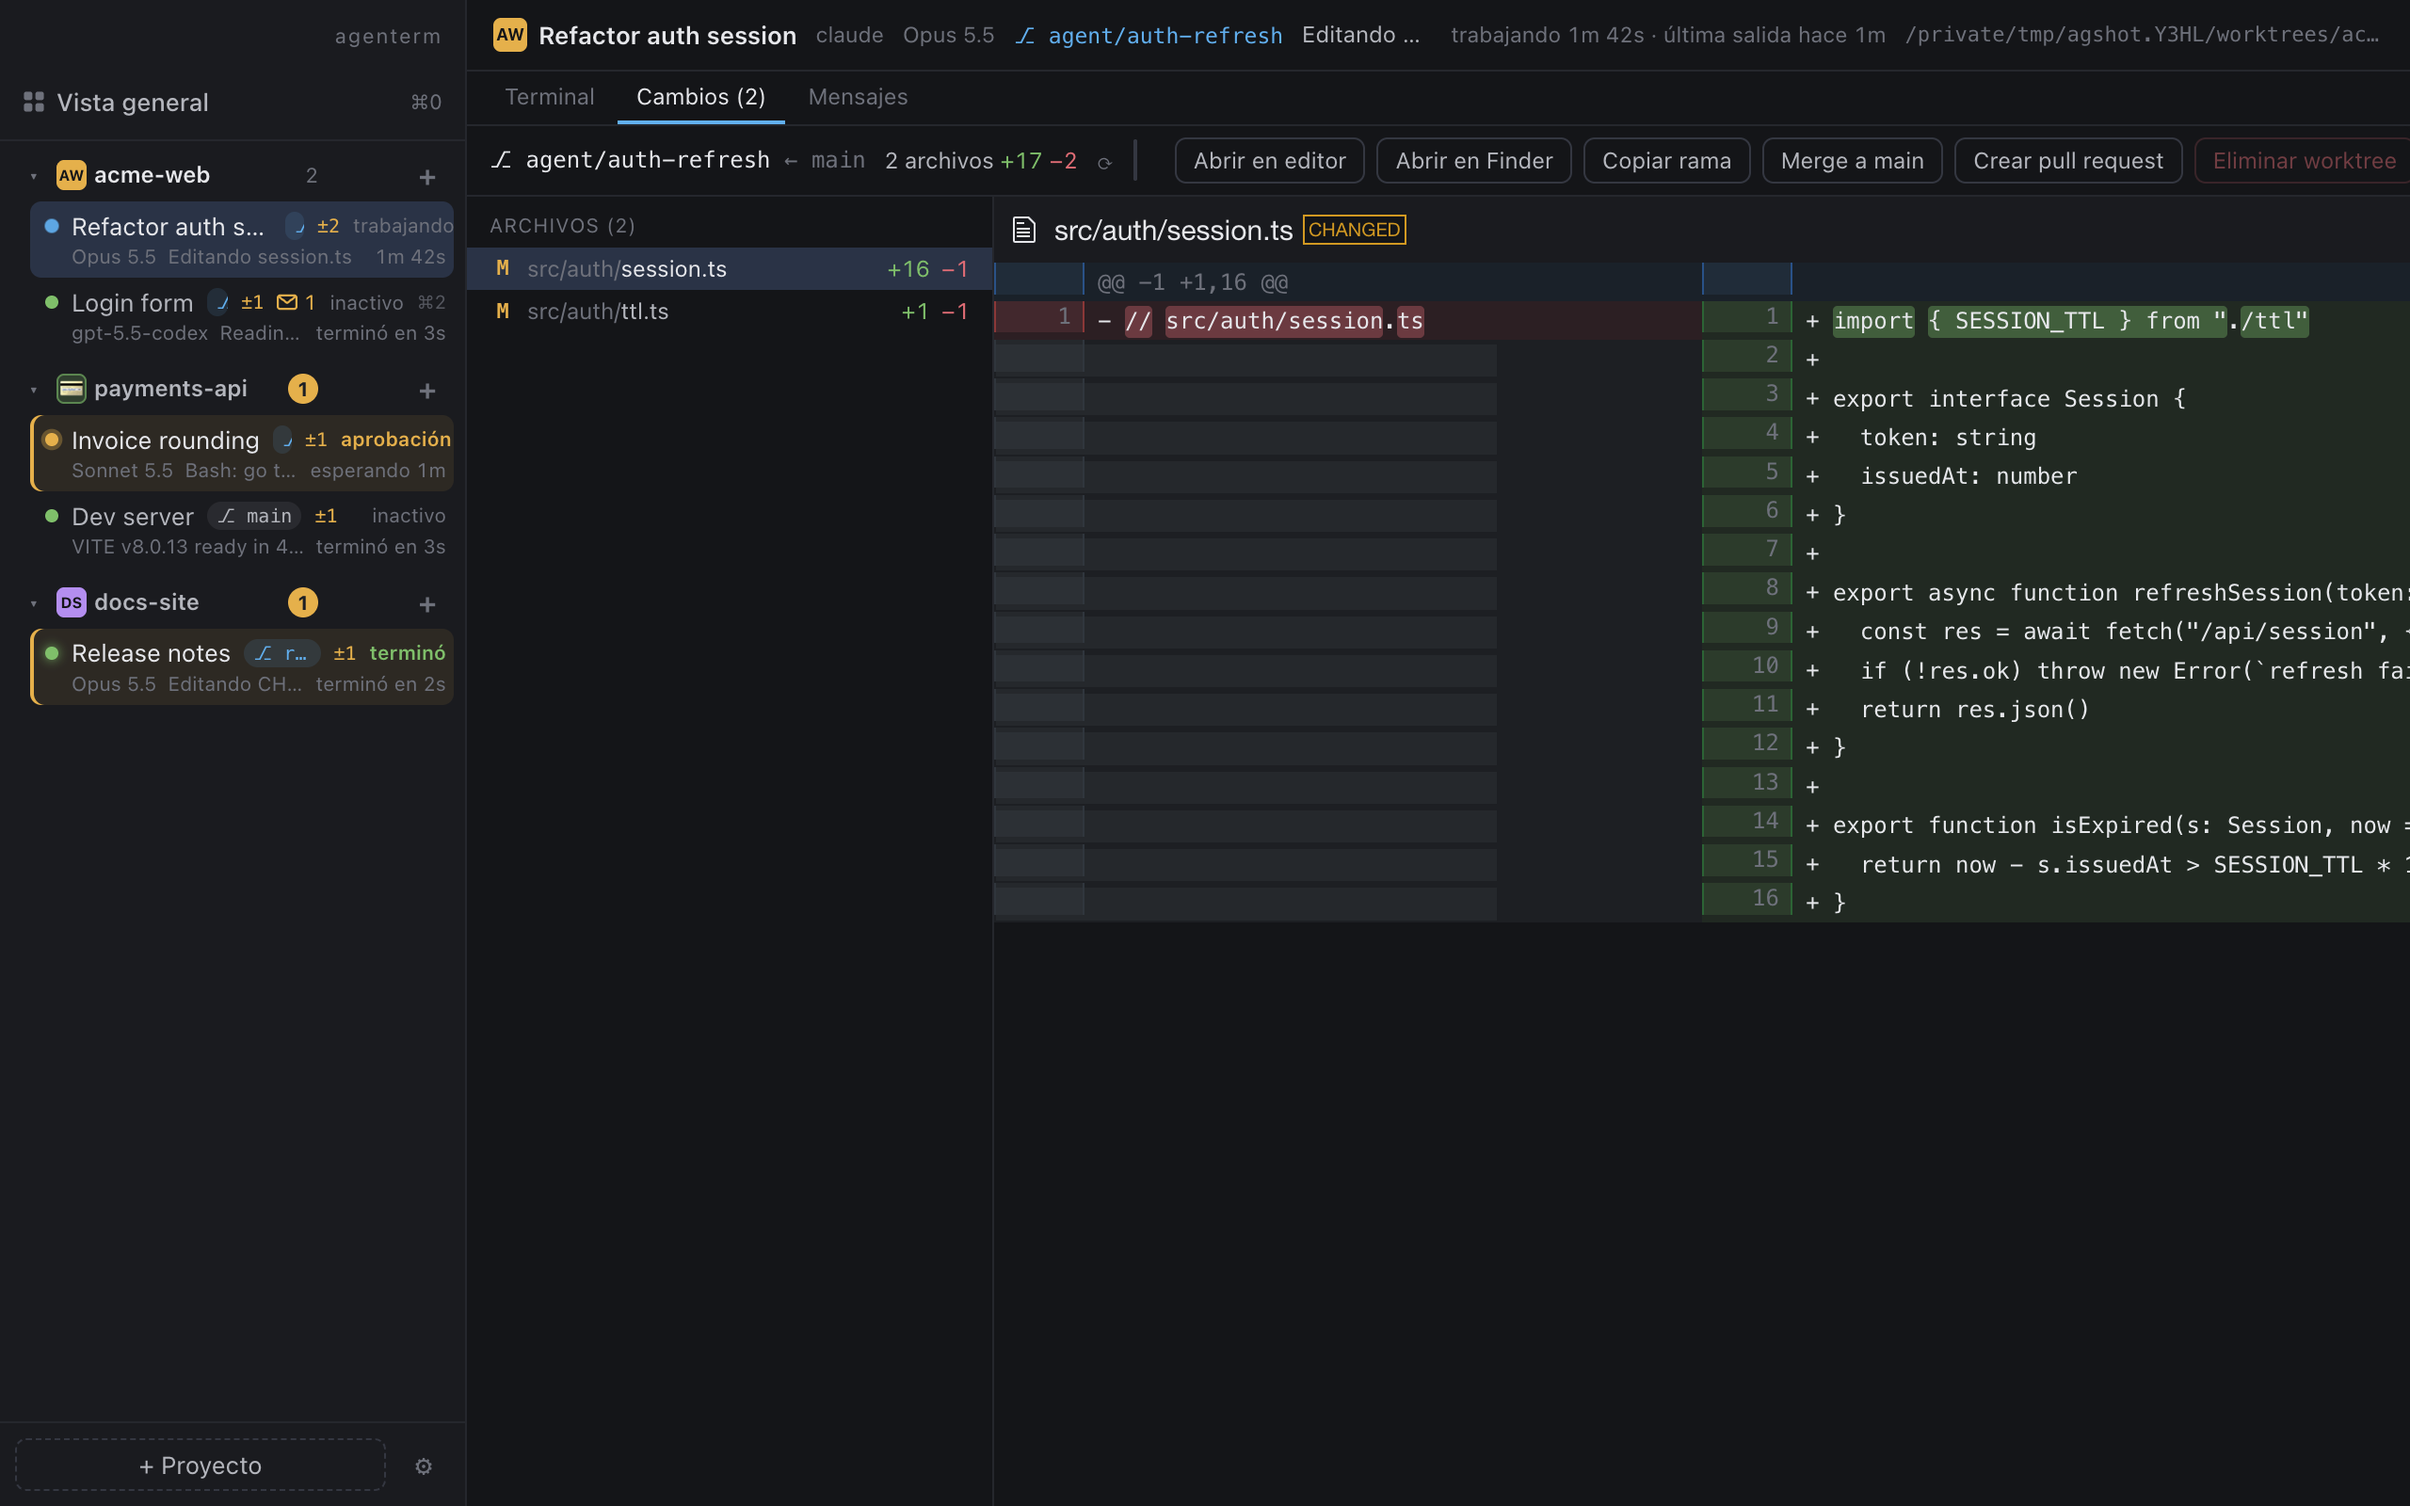
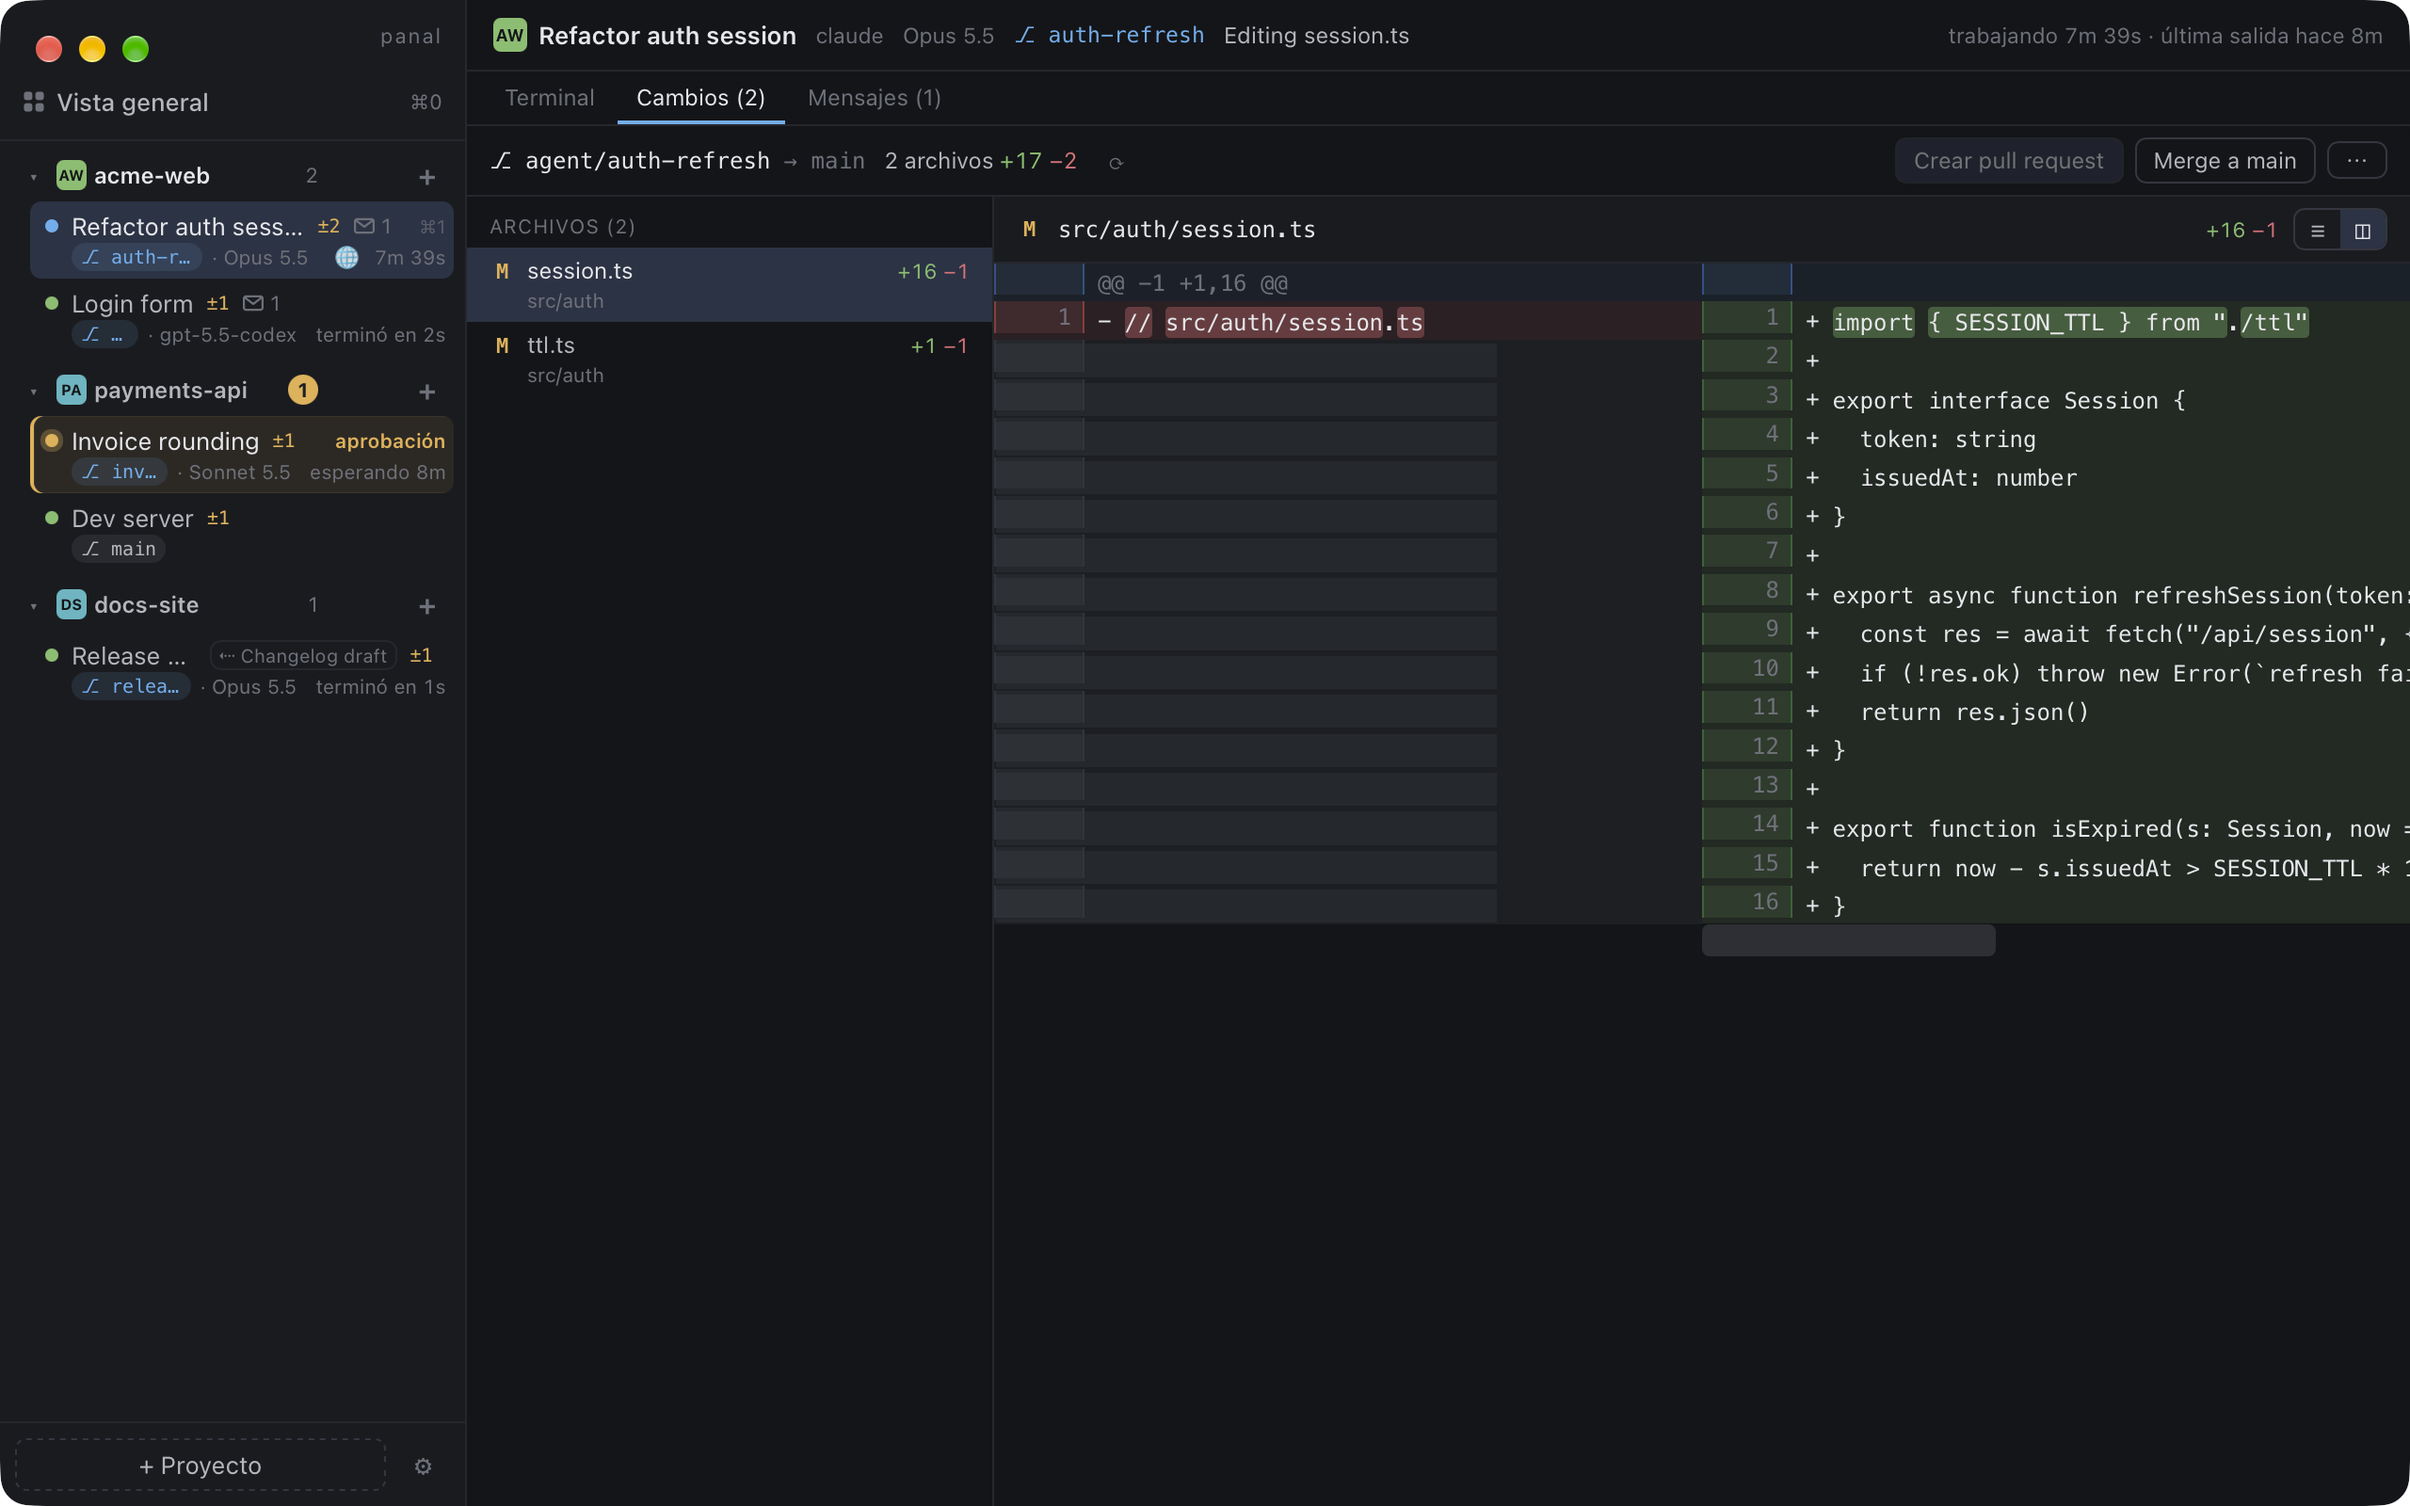
docs: README screenshots as panal, with instructions and continue-with; list the new features
New captures (en/es) from demo data in a temp home (fake agents, no real
ones): the main view (panal wordmark, a session's browser open, a session
continued from another, an approval, a message), the Overview of all
projects, Changes, Messages, and two new ones: Settings → Instructions
(topics, load, scope) and Continue with another agent. Features now list
continue-with, instructions by topic, the per-session browser, installing
agents from Settings and the Linux app.

diff --git a/README.es.md b/README.es.md
@@ -16,7 +16,7 @@ y cuál está esperando tu aprobación. panal agrupa las sesiones por proyecto, 
 vivos aunque cierres la app y te avisa cuando alguno te necesita.
 
 <p align="center">
-  <img src="docs/img/screenshot-es.png" alt="panal: proyectos con sus insignias y sesiones en la barra lateral, cada una con su modelo, su rama y su actividad en vivo, una aprobación pendiente, un mensaje esperando y la terminal" width="900">
+  <img src="docs/img/screenshot-es.png" alt="panal: tres proyectos en la barra lateral, cada sesión con su modelo, rama, cambios y estado en vivo (trabajando, una aprobación esperando, terminada), un mensaje esperando, el navegador propio de una sesión abierto (globo) y una sesión que continúa a otra (⇠ Changelog draft); a la derecha, la terminal del agente elegido" width="900">
 </p>
 
 ## Funciones
@@ -61,13 +61,24 @@ vivos aunque cierres la app y te avisa cuando alguno te necesita.
   los leen con `panal msg read`. A las sesiones en espera se les avisa solo (Claude, y los agentes
   que avisan el fin de su turno), y la pestaña **Mensajes** dice por qué espera un mensaje. Los mensajes
   nunca salen de su proyecto y el daemon decide quién envió cada uno.
-- **Ajustes en la app**: activar, ordenar y editar agentes, y configurar el idioma, la apariencia,
-  las notificaciones y git.
+- **Continuar con otro agente**: pasa el trabajo de una sesión a una nueva (cualquier agente, en la
+  misma carpeta o en un worktree nuevo) o a una que ya está corriendo, con un resumen editable de lo
+  pedido, los cambios y el final de su terminal; la sesión anterior queda plegada bajo la nueva.
+- **Instrucciones para tus agentes**, por temas (seguridad, arquitectura, git…): cada una se carga
+  siempre o solo cuando el trabajo la necesita, para todos los proyectos o solo algunos. Claude
+  Code y codex las reciben al empezar cada sesión, sin tocar su configuración ni tu repositorio.
+- **Un navegador propio por sesión**: los agentes prueban páginas y toman capturas en un Chrome
+  aislado (perfil, ventana y puerto propios) que solo se abre cuando hace falta, nunca en el tuyo.
+  Claude Code y codex lo reciben como herramientas de navegador.
+- **Ajustes en la app**: activar, ordenar y editar agentes, instalar los que todavía no tienes, y
+  configurar el idioma, la apariencia, las notificaciones, git y el navegador de los agentes.
 - **Actualizaciones integradas** (Sparkle): una comprobación diaria en segundo plano, **Buscar
   actualizaciones…** en el menú de la app y una sección *Actualizaciones* en *Ajustes → General*,
   también en las instalaciones con Homebrew.
 - **En inglés y español**: la app sigue los idiomas preferidos de macOS (con inglés como respaldo)
   o el idioma que elijas en *Ajustes → General*.
+- **macOS y Linux**: una app universal para macOS y una experimental para Linux (AppImage y .deb,
+  amd64 y arm64); ver [Linux](#linux).
 
 ## Cómo funciona
 
@@ -90,8 +101,10 @@ Más en [docs/es/architecture.md](docs/es/architecture.md).
 
 | | | |
 |---|---|---|
-| <img src="docs/img/overview-es.png" alt="La Vista general: una tarjeta por sesión con su estado, modelo, rama, actividad y el final de su terminal" width="280"> | <img src="docs/img/changes-es.png" alt="La pestaña Cambios de una sesión con worktree: archivos cambiados, diff lado a lado y Merge a main / Crear pull request" width="280"> | <img src="docs/img/messages-es.png" alt="La pestaña Mensajes: un mensaje entregado a otra sesión y una respuesta esperando, con el botón Entregar" width="280"> |
+| <img src="docs/img/overview-es.png" alt="La Vista general: una tarjeta por sesión con su estado, modelo, rama, actividad y el final de su terminal" width="280"> | <img src="docs/img/changes-es.png" alt="La pestaña Cambios de una sesión con worktree: archivos cambiados, diff lado a lado y Merge a main / Crear pull request" width="280"> | <img src="docs/img/messages-es.png" alt="La pestaña Mensajes: un mensaje enviado a otra sesión y su respuesta esperando a ser entregada" width="280"> |
 | **Vista general** (⌘0): todas las sesiones de un vistazo | **Cambios**: el diff, merge o pull request | **Mensajes** entre las sesiones de un proyecto |
+| <img src="docs/img/instructions-es.png" alt="Ajustes, Instrucciones: temas que se cargan siempre o cuando hace falta, para todos los proyectos o solo algunos, y qué agentes los reciben" width="280"> | <img src="docs/img/handoff-es.png" alt="Continuar con otro agente: una sesión nueva o una existente, el agente, dónde trabaja y un resumen editable del trabajo hasta ahora" width="280"> | |
+| **Instrucciones** para tus agentes, por temas | **Continuar con** otro agente | |
 
 ## Instalación
 

diff --git a/README.md b/README.md
@@ -16,7 +16,7 @@ approval. panal groups sessions by project, keeps agents alive even after you cl
 tells you when one of them needs you.
 
 <p align="center">
-  <img src="docs/img/screenshot.png" alt="panal: projects with their badges and sessions in the sidebar, each with its model, branch and live activity, an approval waiting, a message waiting, and the terminal" width="900">
+  <img src="docs/img/screenshot.png" alt="panal: three projects in the sidebar, each session with its model, branch, changes and live state (working, an approval waiting, done), a message waiting, a session's own browser open (globe) and a session continued from another (⇠ Changelog draft); the selected agent's terminal on the right" width="900">
 </p>
 
 ## Features
@@ -58,12 +58,23 @@ tells you when one of them needs you.
   read them with `panal msg read`. Idle sessions are told about them by themselves (Claude, and
   agents that report the end of their turn), and the **Messages** tab says why any message waits. Messages never leave
   their project and the daemon decides who sent each one.
-- **In-app settings**: enable, reorder and edit agents, and configure the language, appearance,
-  notifications and git.
+- **Continue with another agent**: hand a session's work to a new session (any agent, in the same
+  folder or a new worktree) or to one that is already running, with an editable summary of what was
+  asked, the changes and the end of its terminal; the old session folds under the new one.
+- **Instructions for your agents**, by topic (security, architecture, git…): each loads always or
+  only when the work needs it, for every project or only some. Claude Code and codex get them when
+  a session starts, without touching their configuration or your repository.
+- **A browser of its own per session**: agents test pages and take screenshots in an isolated
+  Chrome (own profile, window and port) that opens only when needed, never in yours. Claude Code
+  and codex get it as browser tools.
+- **In-app settings**: enable, reorder and edit agents, install the ones you don't have yet, and
+  configure the language, appearance, notifications, git and the agents' browser.
 - **In-app updates** (Sparkle): a daily background check, **Check for Updates…** in the app menu
   and an *Updates* section in **Settings → General**, Homebrew installs included.
 - **English and Spanish**: the app follows your macOS preferred languages (falling back to English)
   or the language you pick in **Settings → General**.
+- **macOS and Linux**: a universal macOS app, and an experimental Linux one (AppImage and .deb,
+  amd64 and arm64); see [Linux](#linux).
 
 ## How it works
 
@@ -86,8 +97,10 @@ More in [docs/architecture.md](docs/architecture.md).
 
 | | | |
 |---|---|---|
-| <img src="docs/img/overview.png" alt="The Overview: a card per session with its state, model, branch, activity and the end of its terminal" width="280"> | <img src="docs/img/changes.png" alt="The Changes tab of a worktree session: changed files, a side-by-side diff, and Merge into main / Create pull request" width="280"> | <img src="docs/img/messages.png" alt="The Messages tab: a message delivered to another session and a reply waiting, with the Deliver button" width="280"> |
+| <img src="docs/img/overview.png" alt="The Overview: a card per session with its state, model, branch, activity and the end of its terminal" width="280"> | <img src="docs/img/changes.png" alt="The Changes tab of a worktree session: changed files, a side-by-side diff, and Merge into main / Create pull request" width="280"> | <img src="docs/img/messages.png" alt="The Messages tab: a message sent to another session and its reply waiting to be delivered" width="280"> |
 | **Overview** (⌘0): every session at a glance | **Changes**: the diff, merge or pull request | **Messages** between the sessions of a project |
+| <img src="docs/img/instructions.png" alt="Settings, Instructions: topics that load always or on demand, for every project or only some, and which agents receive them" width="280"> | <img src="docs/img/handoff.png" alt="Continue with another agent: a new or an existing session, the agent, where it works, and an editable summary of the work so far" width="280"> | |
+| **Instructions** for your agents, by topic | **Continue with** another agent | |
 
 ## Install
 
